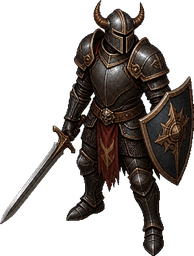
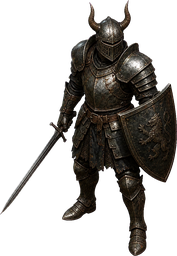
feat: upgrade to smooth 2.5D assets and add [작업 5] fullscreen + HUD + motion

Changed region(s): [[0.0, 0.0, 1.0, 1.0]]

diff --git a/docs/TASK.md b/docs/TASK.md
@@ -115,3 +115,37 @@
 1. `npm run build` 성공 및 TypeScript 에러 0건.
 2. `docs/TASK.md`의 이번 요청을 `[x]`로 표시하고 `docs/WORKLOG.md` 상단에 5줄 이내로 작업 요약 기록.
 3. **토큰 절약**: 브라우저 실기 조작, Playwright/헤드리스 브라우저 실행, Computer Use 도구는 절대 실행하지 않는다.
+---
+
+## [작업 5] 풀스크린 전투 · 상단 좌측 레벨 · 크기 축소 · 고해상도 2.5D 에셋 & 액션 모션
+- **등록일**: 2026-11-15
+- **목표**: 하단 상시 가방을 제거해 전투 화면을 풀스크린으로 넓히고, 상단 HUD 정리(처치수 제거·레벨 좌측 이동), 캐릭터·몹 크기 축소, 비도트 고해상도 2.5D 에셋 교체, 그리고 살아있는 이동·공격·피격 모션을 구현한다.
+
+### 작업 내용
+1. **상시 가방 제거 & 전투 화면 풀스크린 확장**:
+   - 하단에 항상 열려 있던 `가방` 패널을 제거하고, **전투 화면이 맨 아래 `[내 상태]` · `[장비]` · `[스킬]` 버튼 바 바로 위까지 전체 세로 공간을 쓰도록** 확장한다.
+   - 기존 가방(드랍 아이템 그리드 + 비교 장착 + 일괄 분해)은 **`[장비]` 버튼을 눌러 여는 팝업(모달)** 안으로 통합한다(상단 10칸 붉은보석 장착 슬롯 + 하단 가방 그리드 + 일괄 분해 버튼). `[장비]` 버튼에는 새로 먹은 아이템 개수를 작은 배지로 표시한다.
+
+2. **상단 HUD 정리 (`처치 수` 제거 + `LV` 동그라미 좌측 상단 이동)**:
+   - 상단 HUD에서 `처치 XX` 텍스트를 제거한다.
+   - **동그라미 레벨 배지(`LV`)를 왼쪽 위(좌상단)**로 이동한다(원형 경험치 진행 링 유지, 터치 시 계정 정보 팝업 오픈). 나머지 `층`·`골드` 정보는 깔끔하게 우측/중앙에 배치한다.
+
+3. **고해상도 2.5D 비도트 에셋 교체 & 크기 축소**:
+   - `public/assets/`에 새로 커밋된 부드러운 고해상도 2.5D 에셋(`warrior_male_base.png`, `warrior_female_base.png`, `warrior_armored.png`, `skeleton_warrior.png`, `skeleton_boss.png`, `dungeon_tile.jpg`)을 사용한다.
+   - PixiJS 텍스처 `scaleMode`를 `'linear'`로 유지해 도트처럼 거칠게 보이지 않게 한다.
+   - **캐릭터·몬스터 크기 축소**: 전사·해골전사·보스 스프라이트 표시 크기를 기존 대비 **약 55% 수준**(전투 화면에 전사 주변 사방에서 몹이 여유롭게 몰려오는 비율)으로 줄인다.
+   - 전사 발밑에 떠 있던 주황색 동그라미 링과 코드로 그린 어색한 막대기 횃불 그래픽을 제거하고, 부드러운 타원 그림자 + 새 2.5D 아이소메트릭 던전 바닥 타일(`dungeon_tile.jpg`) + 은은한 조명 비네팅만 사용한다.
+
+4. **전투·이동 모션 대폭 강화**:
+   - **이동 모션**: 전사와 해골전사가 이동할 때 정지 그림처럼 미끄러지지 않도록 걷기 리듬에 맞춘 **상하 바운스 + 미세 좌우 기울임(스텝 모션)**과 발밑 미세 먼지 파티클을 추가한다.
+   - **공격·스킬 모션**:
+     - 기본 공격: 전사가 타겟 방향으로 짧게 몸을 찌르는 런지 모션 + 밝은 초승달 검기 슬래시 궤적.
+     - 회전 베기: 전사가 제자리/이동 중 360도 회전(`rotation`)하며 원형 검기 회오리 연출.
+     - 대지 강타: 전사가 살짝 점프했다가 바닥을 내리찍는 모션 + 붉은 충격파 + 짧은 카메라 쉐이크.
+     - 전투 함성: 몸이 살짝 커지며 붉은 오라 링 폭발.
+   - **적 피격·사망 모션**: 해골전사 피격 시 짧은 하얀 플래시(`tint`) + 뒤로 넉백 밀림 + 사망 시 연기와 뼈 파편 파티클 흩어짐.
+
+### 검증 및 완료 기준 (Codex Policy)
+1. `npm run build` 성공 및 TypeScript 에러 0건.
+2. `docs/TASK.md`의 이번 요청을 `[x]`로 표시하고 `docs/WORKLOG.md` 상단에 5줄 이내로 작업 요약 기록.
+3. **토큰 절약**: 브라우저 실기 조작, Playwright/헤드리스 브라우저 실행, Computer Use 도구는 절대 실행하지 않는다.
